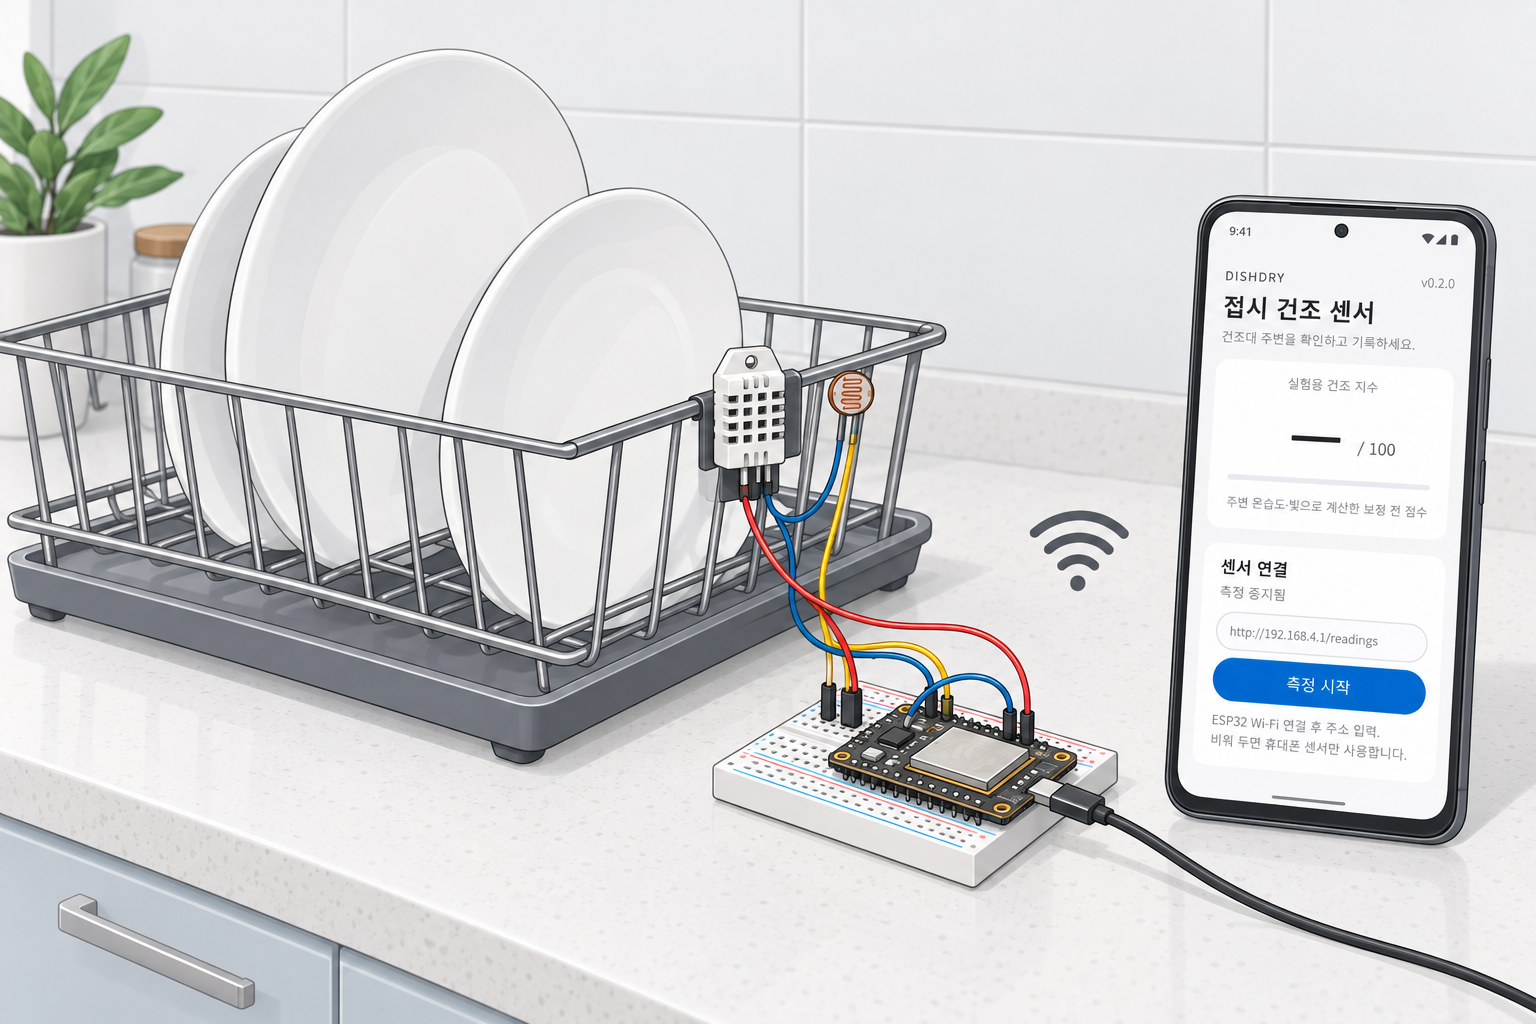
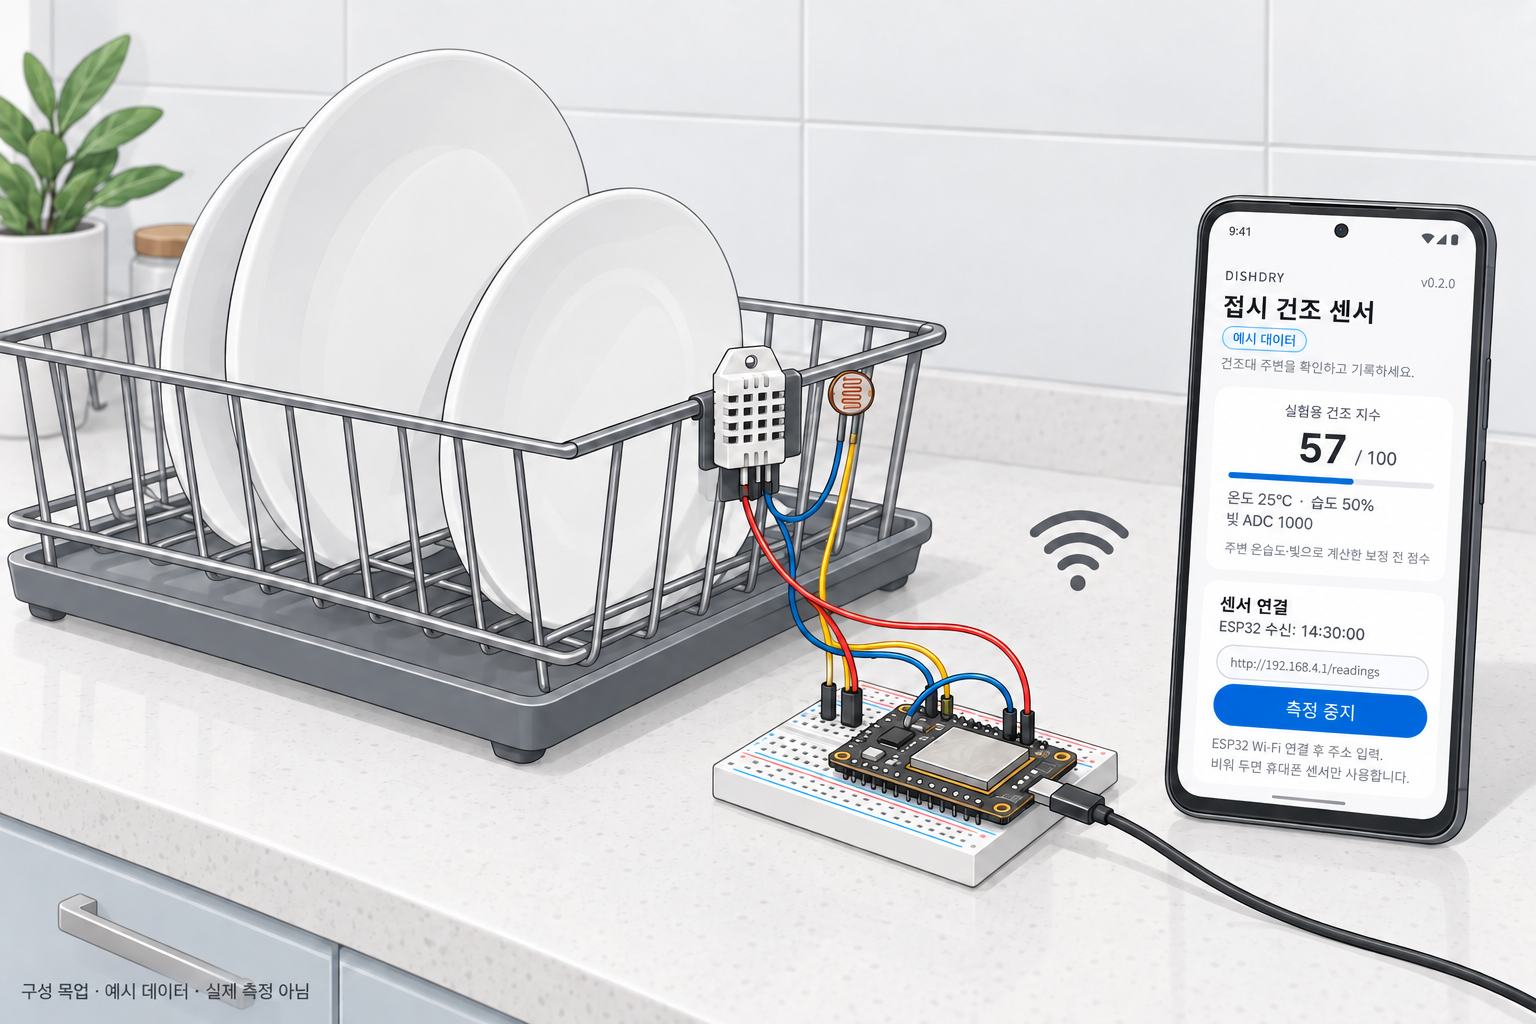
docs: add labeled example readings to app visuals

diff --git a/README.md b/README.md
@@ -8,7 +8,7 @@
 
 ![접시 건조대의 온습도·빛 센서, ESP32 보드와 새 Android 화면 구성 개념도](docs/images/dishdry-sensor-sketch.png)
 
-*접시 건조대 옆 센서와 v0.2.0 앱을 연결하는 구성 개념도. 실물 장치 실행 사진이 아닙니다.*
+*접시 건조대 옆 센서와 v0.2.0 앱을 연결하는 구성 목업. 화면 수치는 예시 데이터이며, 실물 장치 실행 사진이 아닙니다.*
 
 ## 앱 실제 실행 화면
 
@@ -91,18 +91,20 @@ flowchart TD
 
 ![센서 Wi-Fi 연결, 측정값 확인, 현재 값 기록, CSV 저장으로 이어지는 4컷 사용 시나리오](docs/images/user-scenario.png)
 
-*새 화면 디자인으로 맞춘 4컷 개념 시나리오. 대시와 대괄호는 자리 표시이며, 실물 센서 실행 기록이 아닙니다.*
+*새 화면 디자인으로 맞춘 4컷 개념 시나리오. 화면 수치와 기록 3개는 이해를 돕는 예시 데이터이며, 실물 센서 실행 기록이 아닙니다.*
 
 ## 화면 와이어프레임과 사용 흐름
 
-![센서 연결 준비, 실제 센서값 확인, 현재 값 기록, CSV 내보내기의 Android 사용 흐름 와이어프레임](docs/images/android-user-flow.svg)
+![예시 데이터로 보는 센서 연결 준비, 측정값 확인, 현재 값 기록, CSV 내보내기의 Android 사용 흐름 와이어프레임](docs/images/android-user-flow.svg)
+
+구성 목업·시나리오·와이어프레임에는 같은 **예시 데이터**를 사용했습니다. 온도 **25°C**, 습도 **50%**, 빛 **ADC 1000**을 임시 계산식에 넣으면 지수는 약 57.44이며 앱의 정수 표시는 **57 / 100**입니다. 휴대폰 조도 **320 lx**, 움직임 **0.12 m/s²**, 기록 **3개**와 표시 시각도 가상 예시입니다.
 
 1. **연결 준비** — ESP32의 `DishDrySensor-ESP32` Wi-Fi에 연결하고 앱에 `http://192.168.4.1/readings`를 입력합니다. 주소를 비우면 휴대폰 센서만 사용합니다.
 2. **측정 시작** — `측정 시작`을 누르면 지원되는 휴대폰 센서를 읽고, 외부 주소가 있으면 5초마다 ESP32 측정값을 요청합니다. 연결 상태와 센서 수치, 임시 건조 지수를 확인합니다.
 3. **현재 값 기록** — `현재 값 기록`을 누른 시점의 유효한 값을 앱 내부 CSV에 한 줄씩 저장합니다. 미측정 항목은 빈칸으로 남고, 모든 값이 없으면 저장하지 않습니다.
 4. **CSV 저장** — `CSV 내보내기`를 눌러 시스템 파일 선택기에서 저장 위치를 고릅니다. 파일 이름은 `dish-dry-readings.csv`입니다. 저장된 기록이 없으면 내보내기를 진행하지 않습니다.
 
-와이어프레임의 `[측정값]`과 `[점수]`는 화면 배치용 자리 표시입니다. 파일 선택기를 포함해 앱 화면을 벗어나면 측정은 중지됩니다. 앱에 돌아온 뒤 계속 측정하려면 `측정 시작`을 다시 눌러야 합니다.
+연결 준비 화면의 대시는 측정 전 상태를 뜻합니다. 예시 수치는 개념 그림에만 사용하며, 위의 실제 앱 실행 캡처와 검증 로그는 원본입니다. 파일 선택기를 포함해 앱 화면을 벗어나면 측정은 중지됩니다. 앱에 돌아온 뒤 계속 측정하려면 `측정 시작`을 다시 눌러야 합니다.
 
 ## 지금 구현된 것
 

diff --git a/docs/RUN_LOG.md b/docs/RUN_LOG.md
@@ -91,6 +91,12 @@ LG AX · 키친에서 치킨먹기 / 황대겸
 
 [원문 테스트·빌드 결과](logs/2026-10-10-v0.2.1-connection-checks.txt). CI는 `android-check-reports` 아티팩트에 단위 테스트 XML과 lint XML도 저장한다. 이번 수정에서는 에뮬레이터 화면을 새로 캡처하지 않았으며 README의 실행 화면은 v0.2.0이다. 재시도 상태 전환과 실물 ESP32 연결 동작은 기기에서 추가 확인이 필요하다.
 
+## 2026-10-10 · 화면 설명용 예시 데이터
+
+구성 목업·4컷 시나리오·SVG 와이어프레임의 자리 표시를 이해하기 쉬운 예시 수치로 바꿨다. 온도 25°C, 습도 50%, 빛 ADC 1000을 기존 계산식에 넣으면 약 57.44이므로 정수 지수는 57로 맞췄다. 휴대폰 조도 320 lx, 움직임 0.12 m/s², 기록 3개와 표시 시각도 가상 예시다. 각 그림과 README에 예시 데이터임을 표시했다.
+
+SVG 문법과 렌더링을 확인하고, 두 PNG의 화면 수치와 예시 표시를 확인했다. 기존 실제 실행 캡처·센서 기록·원문 검증 로그는 변경하지 않았다. 이번 변경은 그림과 설명 문서에 한정되며 앱 코드·펌웨어의 새 빌드나 실물 측정을 수행한 기록이 아니다.
+
 ## 실물 ESP32 실행 기록 · 확인 대기
 
 현재 확보한 기록은 펌웨어 컴파일이다. 보드 업로드, Serial 출력과 DHT22·LDR 실물 측정은 아직 진행하지 않았다.

diff --git a/docs/TODO.md b/docs/TODO.md
@@ -21,6 +21,7 @@ LG AX · 키친에서 치킨먹기 / 황대겸
 - [x] CSV 파일 작업을 백그라운드로 이동
 - [x] 측정값 만료·주소 검사·CSV 기록의 단위 테스트
 - [x] 구성 그림·시나리오·와이어프레임을 새 화면으로 교체
+- [x] 구성 목업·시나리오·와이어프레임에 일관된 예시 수치와 예시 데이터 표시
 
 초기 앱과 펌웨어의 빌드 결과: [GitHub Actions](https://github.com/unknownamed/lgax-kitchen-sensor-android/actions/runs/37986890214). 위 체크는 코드 구현과 빌드 기준이다. 실제 센서 연결과 실사용 검증은 아래에 남겨 둔다.
 
